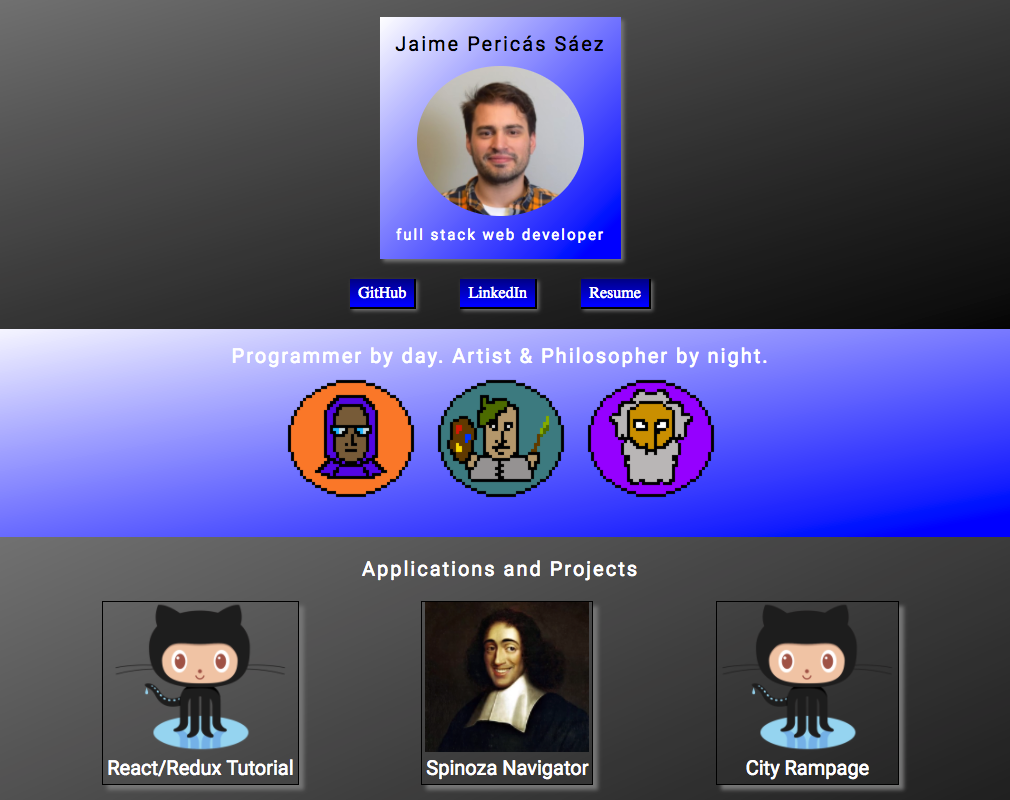
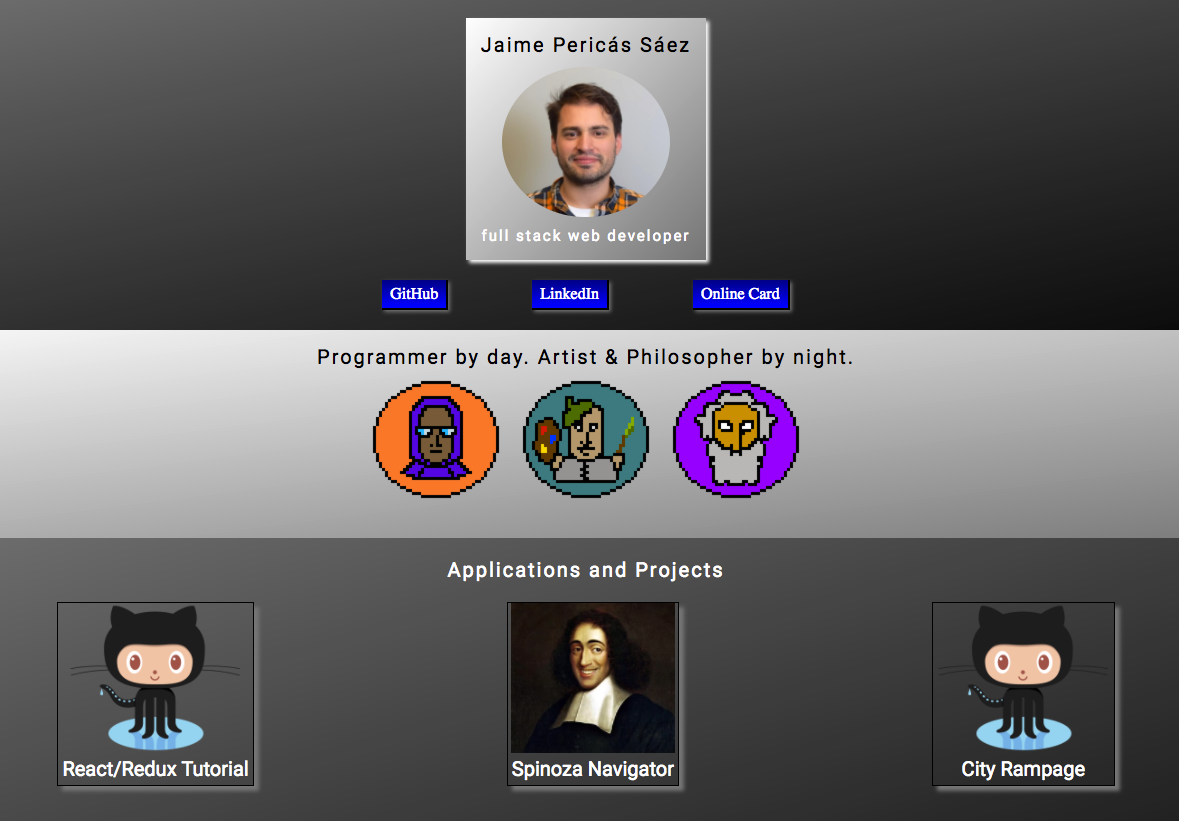
added images

diff --git a/src/assets/styles/Pixels.css b/src/assets/styles/Pixels.css
@@ -3,10 +3,10 @@
 }
 .pixels-container > div {
   padding: 15px;
-  background: -webkit-linear-gradient(left top, white, blue);
-  background: -o-linear-gradient(bottom right, white, blue);
-  background: -moz-linear-gradient(bottom right, white, blue);
-  background: linear-gradient(to bottom right, white, blue);
+  background: -webkit-linear-gradient(left top, white, grey);
+  background: -o-linear-gradient(bottom right, white, grey);
+  background: -moz-linear-gradient(bottom right, white, grey);
+  background: linear-gradient(to bottom right, white, grey);
   display: flex;
   flex: 2;
   flex-direction: column;
@@ -17,7 +17,6 @@
   width: 150px;
 }
 .description {
-  color: white;
   font-family: Roboto;
   font-size: 20px;
   letter-spacing: 2px;

diff --git a/src/assets/styles/Profile.css b/src/assets/styles/Profile.css
@@ -10,11 +10,11 @@
 .profile-info {
   margin: 20px;
   padding: 15px;
-  background: -webkit-linear-gradient(left top, white, blue);
-  background: -o-linear-gradient(bottom right, white, blue);
-  background: -moz-linear-gradient(bottom right, white, blue);
-  background: linear-gradient(to bottom right, white, blue);
-  box-shadow: 3px 3px 5px grey;
+  background: -webkit-linear-gradient(left top, white, grey);
+  background: -o-linear-gradient(bottom right, white, grey);
+  background: -moz-linear-gradient(bottom right, white, grey);
+  background: linear-gradient(to bottom right, white, grey);
+  box-shadow: 3px 3px 5px white;
   display: flex;
   flex-direction: column;
   align-items: center;

diff --git a/src/components/Profile.js b/src/components/Profile.js
@@ -18,7 +18,7 @@ class Profile extends Component {
         <div className='bttns'>
           <div> GitHub </div>
           <div> LinkedIn </div>
-          <div> Resume </div>
+          <div> Online Card </div>
         </div>
 
       </div>

diff --git a/src/components/Contact.js b/src/components/Contact.js
@@ -6,7 +6,8 @@ class Contact extends Component {
   render() {
     return (
       <div className="contact-container">
-        contacts
+        <div className='credits'>Jaime Pericás Sáez &copy; 2017  </div>
+
       </div>
     );
   }
